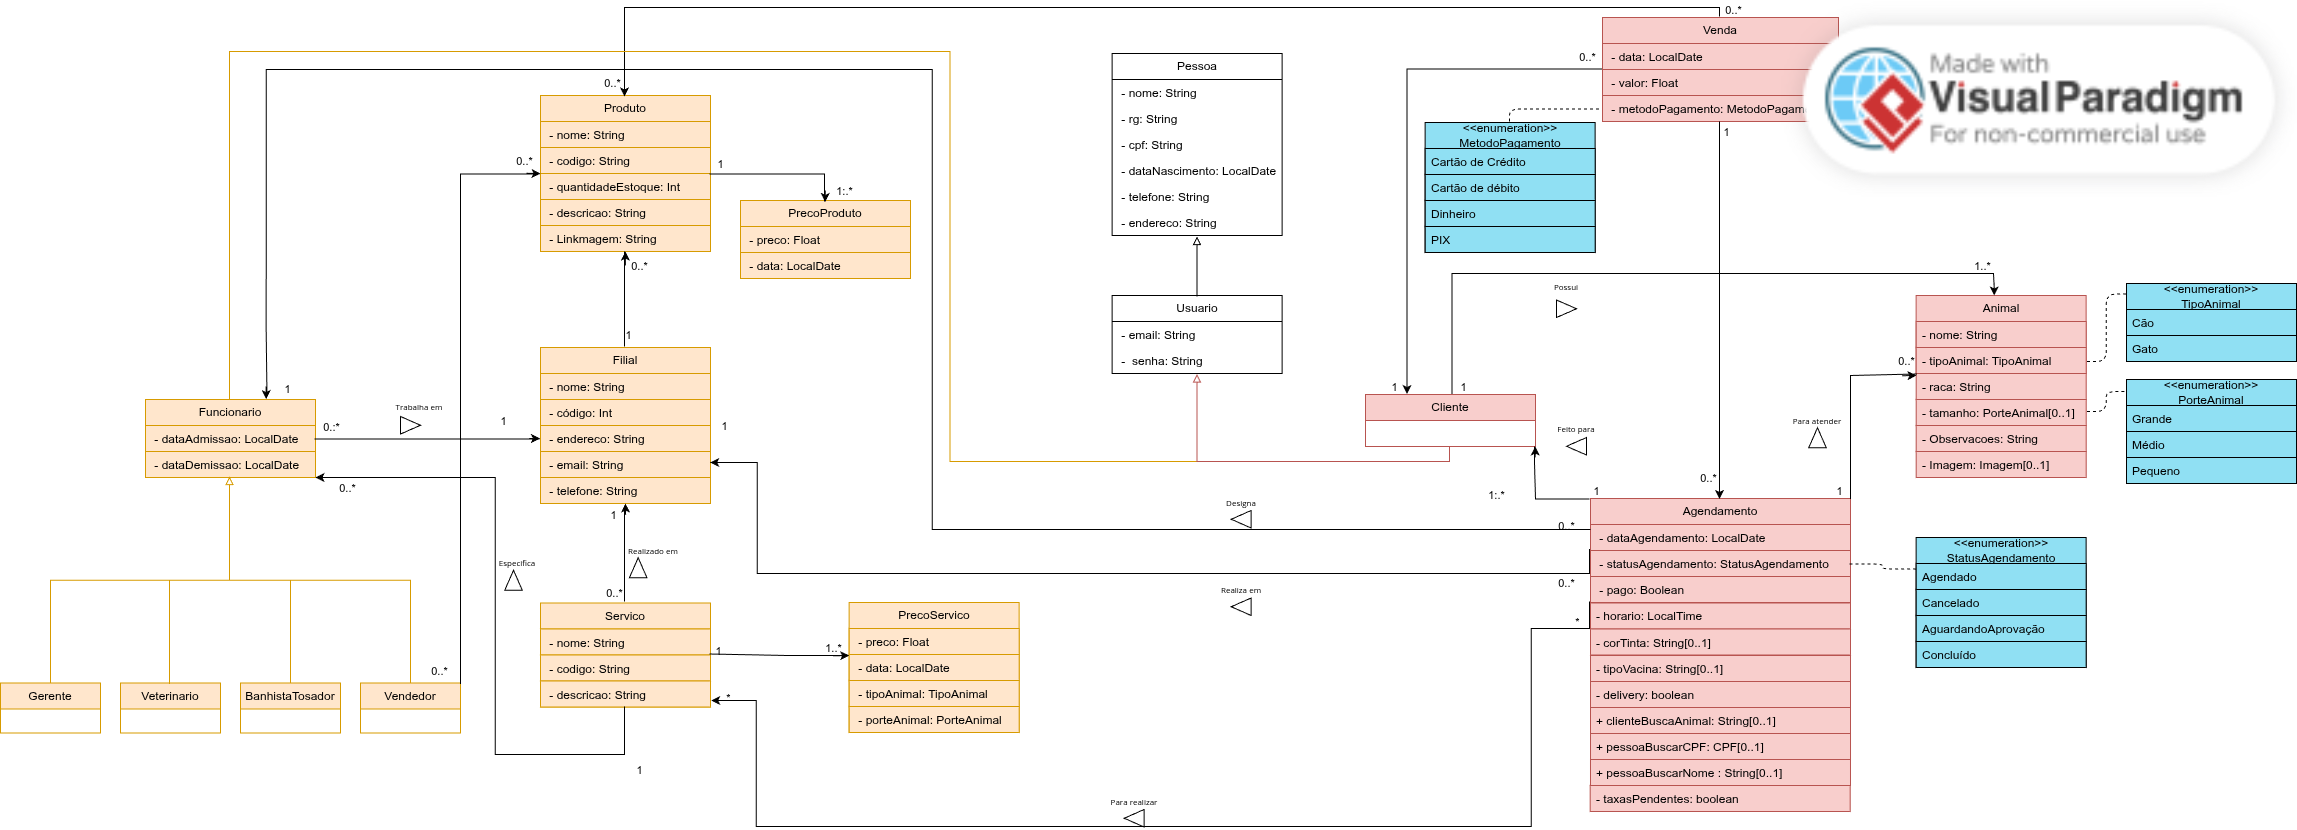
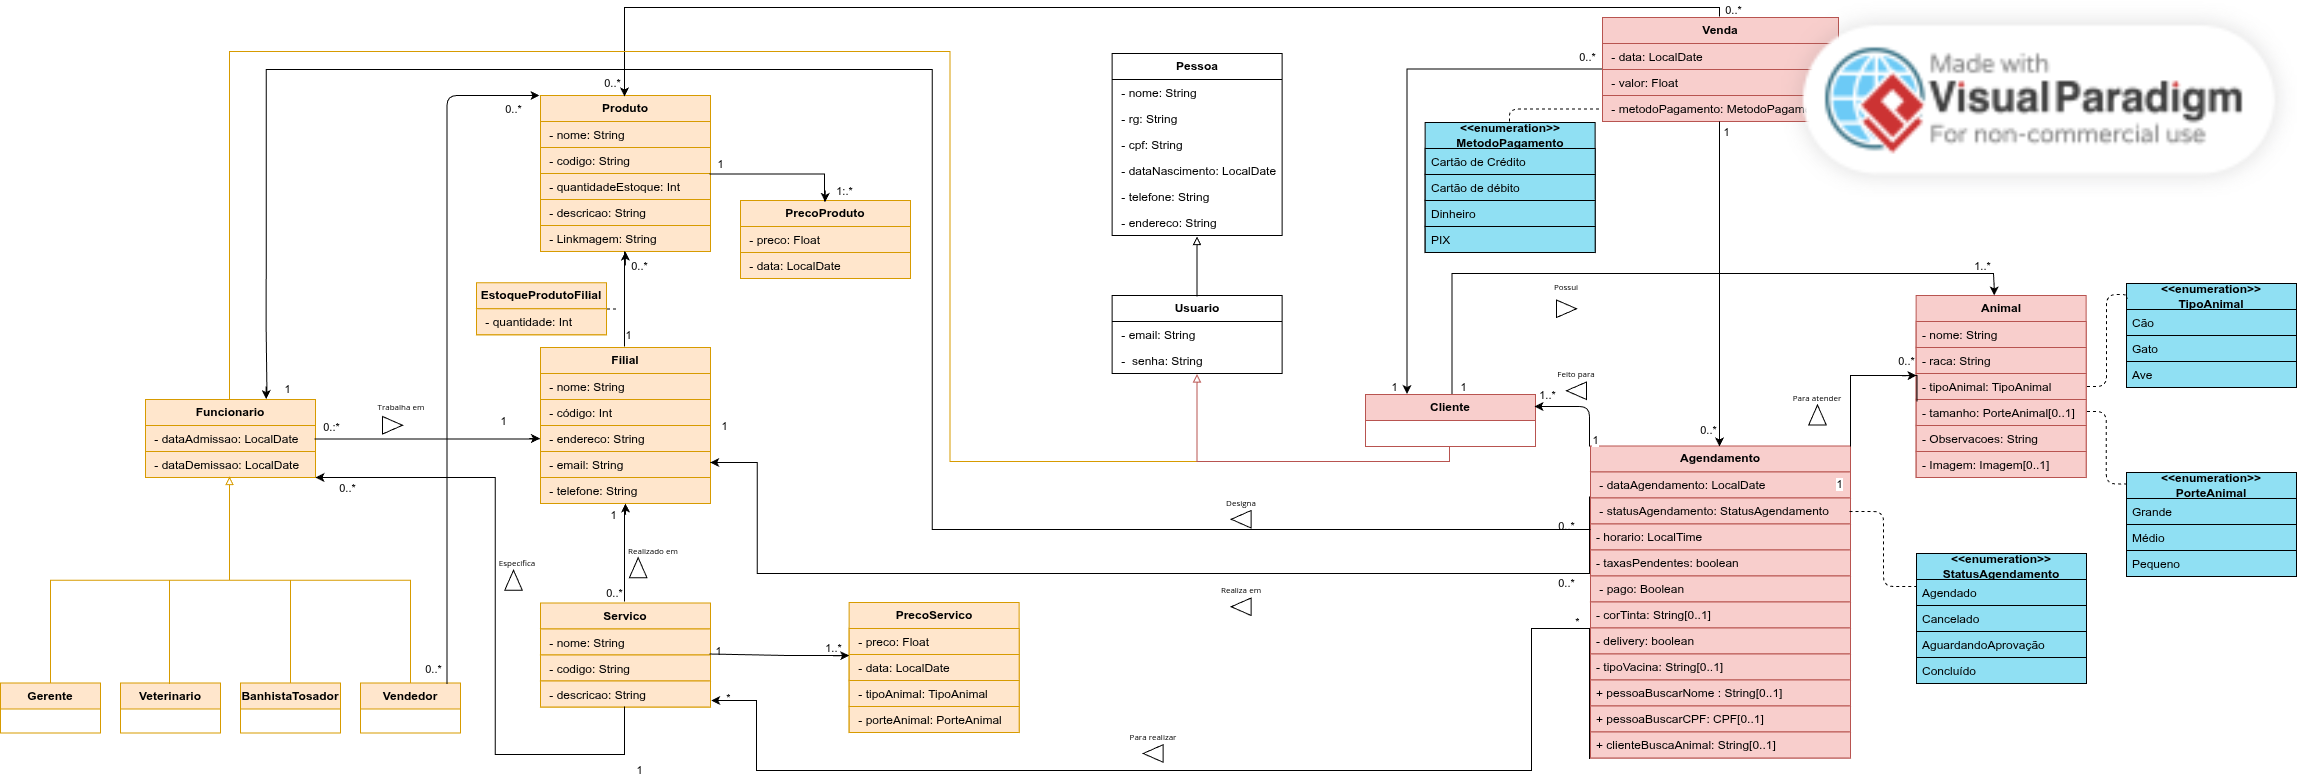
feat: add new pages and diagrams to enhance documentation structure and clarity

diff --git a/capitulos/ch5-componentes.tex b/capitulos/ch5-componentes.tex
@@ -24,7 +24,8 @@ Nesta camada, concentram-se os fluxos de execução que envolvem múltiplas enti
 A modelagem foi feita de modo a manter os serviços coesos e independentes, permitindo que cada caso de uso seja tratado de forma isolada. Essa decisão favorece a manutenção, a testabilidade e a evolução do sistema, além de reduzir o acoplamento entre as camadas. Dessa forma, o pacote Application atua como um ponto central de coordenação da lógica de negócio, garantindo que as regras definidas no domínio sejam corretamente aplicadas e refletidas nas operações do sistema.
 O pacote Application segue o padrão de Camada de Serviço, nesse caso, uma subcamada. E contém subpacotes relacionados à logica, como os pacotes de casos de uso (UseCases), de mapeamento (Mappers) e condicionais baseadas em regras de negócio (Strategies).
 
-\newpage
+\alvaro{Colocar referência bibliográfica sobre Camada de Serviço.}
+
 \section{Camada de Domínio do Problema (CDP)}
 \label{sec-componentes-cdp}
 
@@ -41,8 +42,6 @@ Essa camada atua como a base conceitual do sistema, fornecendo uma estrutura cla
 	\label{figura-cln-domain}
 \end{figure}
 
-\vitor{Por que os atributos são todos públicos? Nos requisitos as classes Animal e Agendamento possuem vários atributos que não aparecem mais aqui. Por que? Nos requisitos, Agendamento tem relação com Filial, Funcionario... As cardinalidades estão no lugar errado. Usar a sintaxe da UML. Faltou representar a navegabilidade entre as classes.}
-
 O pacote Entities contém as entidades que representam os conceitos e objetos centrais do sistema Pet Shop, refletindo diretamente o funcionamento do negócio. Cada entidade encapsula seus atributos e comportamentos (métodos), fornecendo uma interface clara para a manipulação e validação dos dados do domínio.
 
 Essa camada foi projetada para manter a coesão e a independência das regras do negócio em relação às demais camadas do sistema, garantindo que a lógica essencial permaneça concentrada nas próprias entidades. As relações entre elas foram definidas para representar de forma fiel as operações reais do pet shop, como o vínculo entre clientes e animais, o registro de agendamentos de serviços e a associação de vendas a produtos e funcionários.
@@ -51,11 +50,9 @@ A modelagem também segue princípios de clareza e extensibilidade, permitindo q
 
 Para chegar ao modelo atual, foram feitas mudanças nos relacionamentos entre as entidades, a fim de garantir fluxos melhores definidos e o menor acoplamento possível entre as entidades, relacionando apenas as entidades que necessitavam de outras entidades para funcionarem corretamente. Além de melhorias nos nomes das entidades para facilitar a compreensão.
 
-i.ex.: Na primeira versão do domínio, a relação era entre \verb|BanhistaTosador| e \verb|Servico|, impedindo um funcionário do tipo \verb|Veterinario| de ser associado a um serviço.
-Outro exemplo, foi a entidade \verb|EstoqueProduto|, que deixou de ser uma entidade para se tornar o atributo "quantidadeEstoque" na entidade \verb|Produto|.
-
-\vitor{Mas como você vai saber a quantidade em estoque de cada filial? Explicar também a inclusão da classe Usuario, que não existia.}
-\mateus{A gente não poderia remover essa classe Usuario?}
+\hl{i.ex.:} Na primeira versão do domínio, a relação era entre \verb|BanhistaTosador| e \verb|Servico|, impedindo um funcionário do tipo \verb|Veterinario| de ser associado a um serviço.
+Outro exemplo, foi a entidade \verb|EstoqueProduto|, que foi renomeada para \verb|EstoqueProdutoFilial|, para representar melhor a relação entre as filiais e os produtos, onde cada filial possui uma quantidade em estoque de cada produto.
+Além disso, as classes \verb|Pessoa| e \verb|Usuario| foram adicionadas como superclasses para as entidades \verb|Cliente| e \verb|Funcionario|, respectivamente, para evitar a duplicação de atributos comuns entre essas entidades.
 
 \subsection{Pacote Enums}
 \label{sec-componentes-cdp-enums}
@@ -64,3 +61,34 @@ O pacote Enums contém os tipos enumerados utilizados no sistema para representa
 Esses enums fornecem uma maneira clara e consistente de definir e utilizar valores predefinidos, facilitando a validação e a manipulação dos dados no contexto do domínio do pet shop.
 
 Os enums também podem representar os possíveis estados ou valores que serão utilizados pela CLN (\ref{sec-componentes-cln}) para implementar regras de negócio específicas.
+
+\newpage
+
+\section{Camada de Interface com o Usuário}
+\label{sec-ciu}
+
+A Camada de Interface com o Usuário (CIU) é responsável por fornecer a interação entre os usuários finais e o sistema, apresentando as informações de forma clara e intuitiva, além de capturar as ações e comandos dos usuários para serem processados pela lógica de negócio.
+
+Essa camada é composta por componentes que gerenciam a apresentação visual (views) e o controle de acionamento de fluxos através dos controllers, que por sua vez fazem a comunicação com a CLN através das Classes Gerenciadoras de Tarefas (CGTs) contidas no pacote Application (\ref{sec-componentes-cln-application}).
+
+\vitor{Adicionar imagens da IU (prints)}
+
+Com base na interface definida nos protótipos, a CIU foi projetada separando os componentes de interface (views) dos componentes de controle (controllers), que interagem com os componentes da CLN para realizar as operações solicitadas pelos usuários.
+
+\begin{figure}[h]
+	\centering
+	\includegraphics[width=1\textwidth]{figuras/diagrama_ciu.png}
+	\caption{Camada de Interface com o Usuário (views e controllers) separada em subpacotes}
+	\label{figura-cius}
+\end{figure}
+
+Conforme a Figura~\ref{figura-cius}, cada subpacote da CIU pode ser representado por um fluxo. A seguir, são representados os principais fluxos da CIU:
+
+\begin{figure}[h]
+	\centering
+	\includegraphics[width=0.8\textwidth,height=0.4\textheight]{figuras/ciu_cliente.png}
+	\caption{Fluxo de cadastro e gerenciamento de clientes}
+	\label{figura-ciu-cliente}
+\end{figure}
+
+\newpage

diff --git a/projeto-nomesistema.tex b/projeto-nomesistema.tex
@@ -288,6 +288,7 @@
 		3.0             & Pedro Quedevez       & 09/11/2025    & Projeto dos Componentes da Arquitetura (Cap. \ref{sec-componentes}).                                                         \\\hline
 		4.0             & Álvaro Alves         & 12/12/2025    & Alteração do Diagrama de Pacotes e descrição das camadas da arquitetura (Cap. \ref{sec-arquitetura}).                        \\\hline
 		4.1             & Pedro Quedevez       & 15/12/2025    & Revisão do Diagrama do Domínio (Cap. \ref{sec-componentes-cdp}).                                                             \\\hline
+		4.2             & Mateus Loss          & 16/12/2025    & Definição da Camada de Interface com o Usuário (Cap. \ref{sec-ciu}).                                                         \\\hline
 	\end{tabular}
 \end{center}
 \newpage

diff --git a/capitulos/ch4-arquitetura.tex b/capitulos/ch4-arquitetura.tex
@@ -30,3 +30,5 @@ As camadas da arquitetura de cada subsistema são definidas como:
 A comunicação entre as camadas segue o padrão MVC, onde as páginas do front-end (CIU) chamam os adaptadores responsáveis pelas respostas via protocolo RESTful no back-end, acionando as classes controladoras (CIU), que interagem com as classes da camada de lógica de negócios (CLN) que, por sua vez, manipula as classes do domínio do problema (CDP) e se comunica com a camada de gerência de dados (CGD), a fim de persistir os registros da aplicação.
 
 \vspace{0.5cm}
+
+\newpage

diff --git a/capitulos/ch2-plataforma.tex b/capitulos/ch2-plataforma.tex
@@ -77,3 +77,5 @@ Na Tabela~\ref{tabela-software} vemos os softwares que apoiaram o desenvolviment
 		GitHub                            & -               & Plataforma de hospedagem de código-fonte                              & Utilizado para controle de versão e colaboração no desenvolvimento do código fonte do sistema. \\ \hline
 	\end{longtable}
 \end{footnotesize}
+
+\newpage

diff --git a/capitulos/ch1-introducao.tex b/capitulos/ch1-introducao.tex
@@ -26,4 +26,4 @@ Este documento foi produzido por:
 
 \end{itemize}
 
-% \vitor{Remover a \hl{marcação em amarelo} (comando \textbackslash hl\{\}) e comentarios do professor (comando \textbackslash vitor\{\}) de todo o documento.}
+\newpage

diff --git a/capitulos/ch3-rnfs.tex b/capitulos/ch3-rnfs.tex
@@ -130,3 +130,5 @@ A Tabela~\ref{tabela-rnfs} apresenta a especificação dos requisitos não funci
 		\\\hline
 	\end{longtable}
 \end{footnotesize}
+
+\newpage
